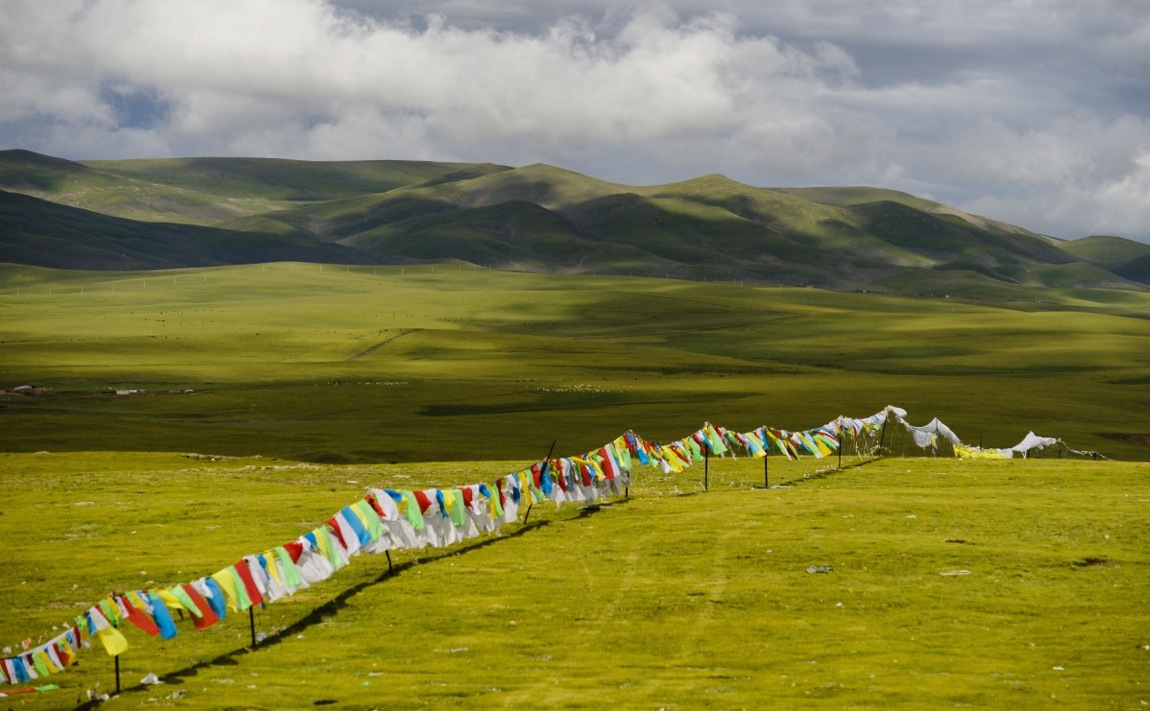
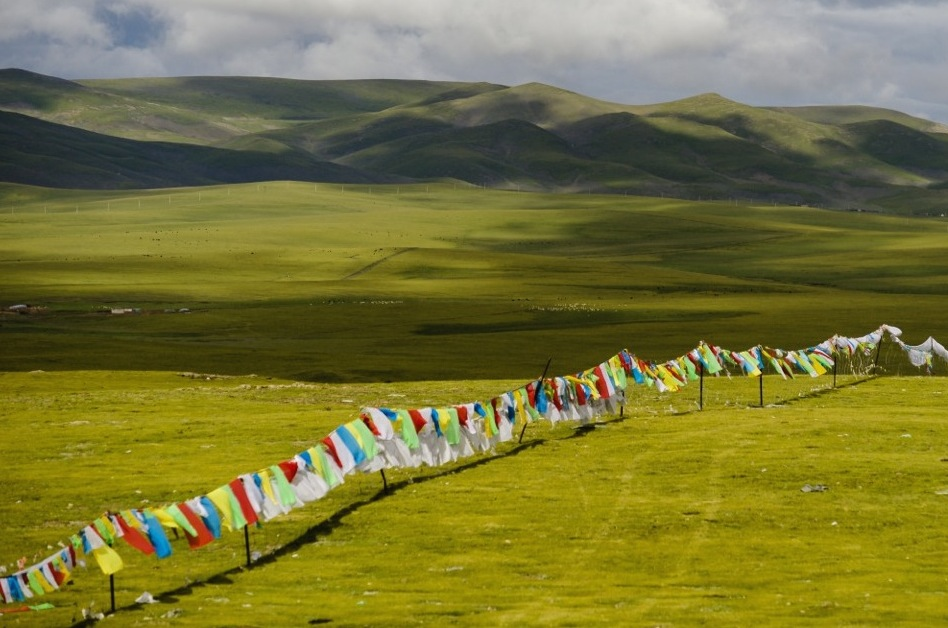
background image

diff --git a/app/assets/stylesheets/application.css.scss b/app/assets/stylesheets/application.css.scss
@@ -461,7 +461,7 @@ td{
     z-index: 1;
 }
 body{
-	background-size: 990px;
+	background-size: 1100px;
 }
 #fore{
 	width:80%;
@@ -538,7 +538,7 @@ h5, h1, h6 {
     z-index: 1;
 }
 body{
-	background-size: 990px;
+	background-size: 900px;
 }
 #fore{
 	width:80%;
